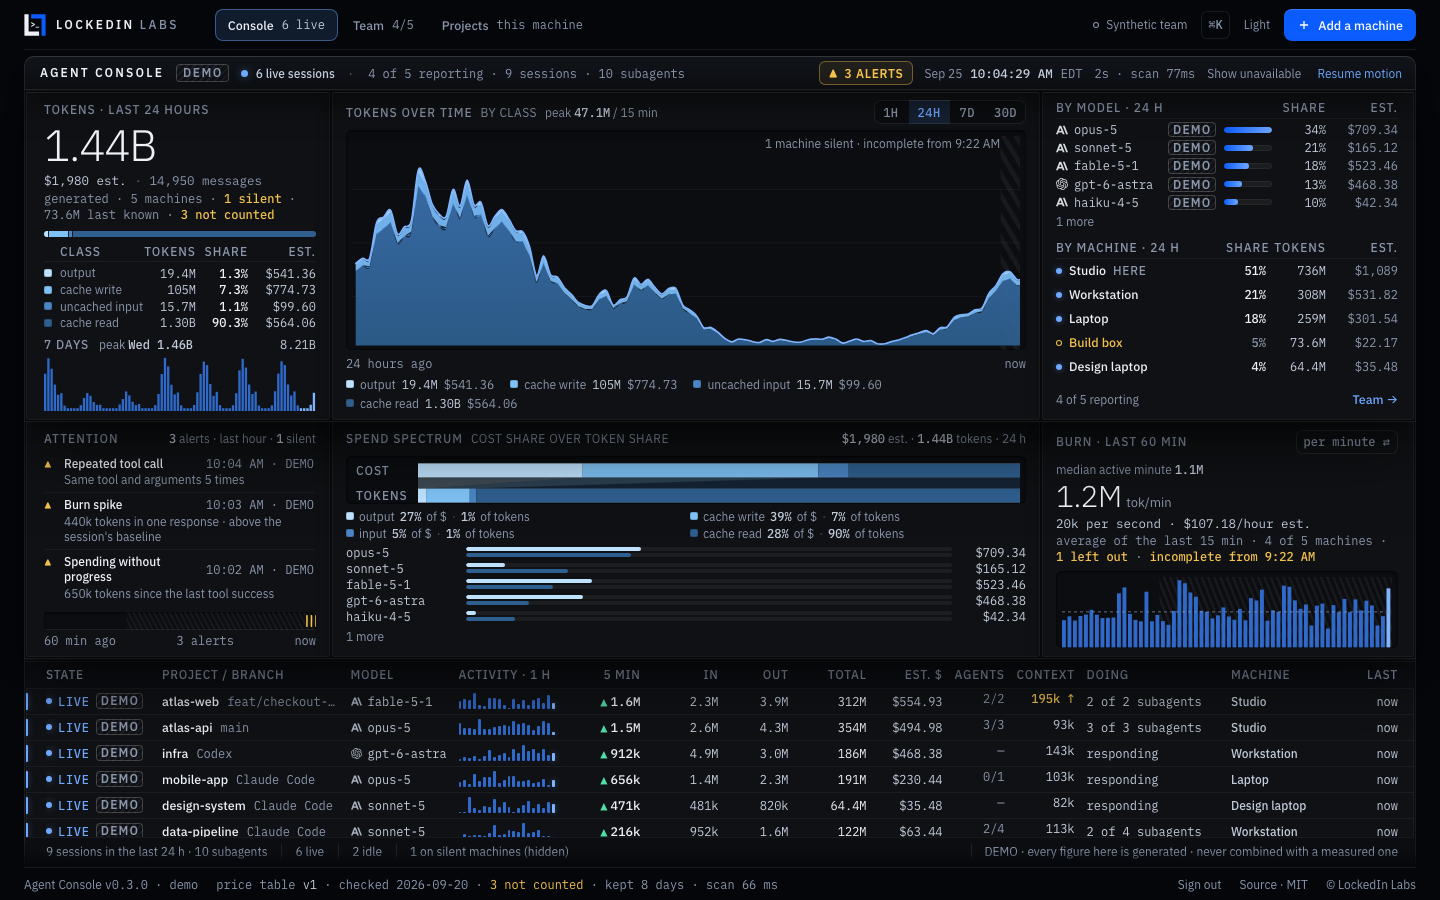
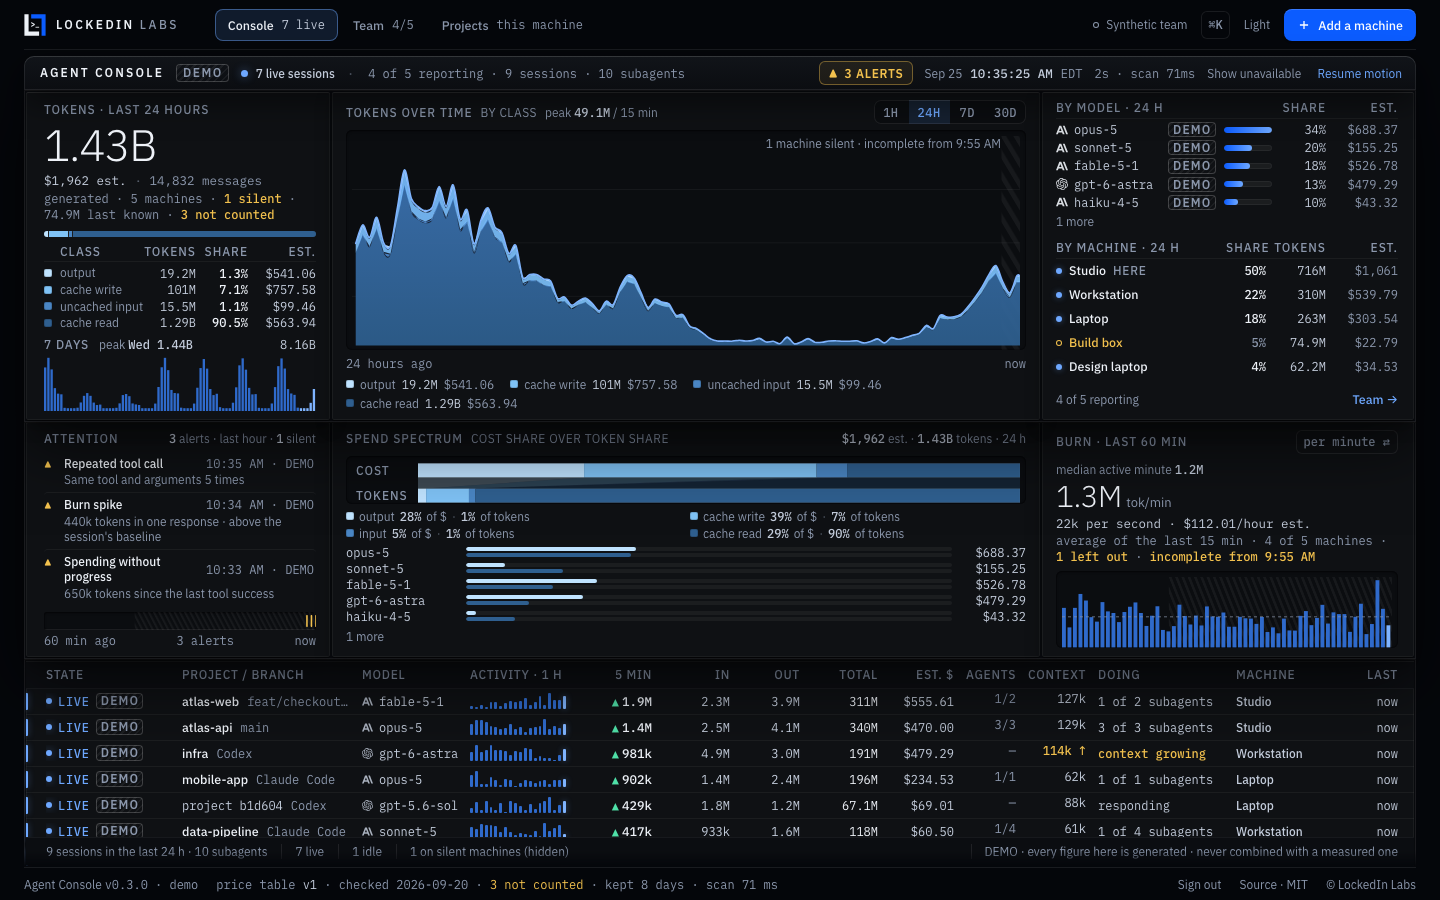
Console UI: the lanes' state column holds SILENT beside the DEMO stamp
The verifier reproduced the last residual on 6af3b00: with Show unavailable
on, a SILENT lane's DEMO stamp overran its 104px state column by 9.2px at
1440, 1280 and 390 in both themes, and the column's clip showed it as DEM.
The column is 124px in all four lane grids (desk, wide, folded, phone):
SILENT · DEMO needs 113 and sits 10.8px inside, REMOVED · DEMO needs 121
and sits 2.9px inside, and RECONNECTING alone (107) fits where 104 cut it.
The stamp keeps the house mark's spacing. LIVE and IDLE lanes are unchanged
but for the wider column; no other lane cell is newly cut.

The focused test names 124 for the four grids and refuses 92, 96 and 104 on
the lane grids alone. The two README Console captures are retaken from the
same demo, metadata stripped, PNG. Data, calculations, the six completed
fixes, credential masking and the architecture are untouched.

diff --git a/public/console.css b/public/console.css
@@ -359,8 +359,9 @@ body[data-demo="true"] .xrow.reporting .xn i { background: var(--lit); box-shado
 .lanes { background: var(--tile); box-shadow: inset 0 1px 0 var(--rim), inset 0 0 0 1px var(--hair2), var(--elev-tile); flex: none; border-radius: 2px; }
 .lanescroll { scrollbar-width: thin; scrollbar-color: var(--hair) transparent; }
 .lanescroll:focus-visible { outline: 2px solid var(--lit); outline-offset: -2px; }
+/* the state column is 124px at every width: room for the longest word the console says (REMOVED, RECONNECTING) beside the DEMO stamp, never a stamp cut to DEM */
 .lhead, .lane { display: grid; align-items: center; gap: calc(12px * var(--k)); padding: 0 calc(16px * var(--k)) 0 calc(20px * var(--k));
-  grid-template-columns: calc(104px * var(--k)) minmax(calc(150px * var(--k)), 1.2fr) minmax(calc(96px * var(--k)), .5fr) minmax(calc(96px * var(--k)), .5fr)
+  grid-template-columns: calc(124px * var(--k)) minmax(calc(150px * var(--k)), 1.2fr) minmax(calc(96px * var(--k)), .5fr) minmax(calc(96px * var(--k)), .5fr)
     calc(74px * var(--k)) calc(66px * var(--k)) calc(58px * var(--k)) calc(66px * var(--k)) calc(64px * var(--k)) calc(50px * var(--k)) calc(58px * var(--k)) minmax(calc(126px * var(--k)), .9fr) minmax(calc(84px * var(--k)), .7fr) calc(52px * var(--k)); }
 .lhead { height: calc(28px * var(--k)); font: 500 calc(12px * var(--k)) var(--sans); letter-spacing: .06em; text-transform: uppercase; color: var(--quiet); white-space: nowrap;
   background: var(--band-head); border-bottom: 1px solid var(--hair2); box-shadow: inset 0 1px 0 var(--rim); overflow: hidden; }
@@ -742,7 +743,7 @@ dialog.pal[open] { animation: sheetin .18s var(--ease); }
 /* ── wide: a big screen gets more lanes, each a little tighter ── */
 @media (min-width: 1800px) {
   .console { grid-template-columns: calc(340px * var(--k)) 1fr calc(400px * var(--k)); }
-  .lhead, .lane { grid-template-columns: calc(104px * var(--k)) minmax(calc(190px * var(--k)), 1.3fr) minmax(calc(110px * var(--k)), .5fr) minmax(calc(120px * var(--k)), .55fr)
+  .lhead, .lane { grid-template-columns: calc(124px * var(--k)) minmax(calc(190px * var(--k)), 1.3fr) minmax(calc(110px * var(--k)), .5fr) minmax(calc(120px * var(--k)), .55fr)
     calc(78px * var(--k)) calc(74px * var(--k)) calc(66px * var(--k)) calc(76px * var(--k)) calc(68px * var(--k)) calc(56px * var(--k)) calc(64px * var(--k)) minmax(calc(150px * var(--k)), 1fr) minmax(calc(110px * var(--k)), .8fr) calc(60px * var(--k)); }
 }
 
@@ -754,7 +755,7 @@ dialog.pal[open] { animation: sheetin .18s var(--ease); }
    columns a phone cannot use dropped. Nothing that carries state is hidden. */
 @media (max-width: 1240px) {
   .lhead .c-in, .lhead .c-out, .lhead .c-usd, .lhead .c-do, .lane .in, .lane .out, .lane .usd, .lane .do { display: none; }
-  .lhead, .lane { grid-template-columns: calc(104px * var(--k)) minmax(calc(150px * var(--k)), 1.3fr) minmax(calc(90px * var(--k)), .5fr) minmax(calc(90px * var(--k)), .5fr)
+  .lhead, .lane { grid-template-columns: calc(124px * var(--k)) minmax(calc(150px * var(--k)), 1.3fr) minmax(calc(90px * var(--k)), .5fr) minmax(calc(90px * var(--k)), .5fr)
     calc(72px * var(--k)) calc(70px * var(--k)) calc(52px * var(--k)) calc(60px * var(--k)) minmax(calc(80px * var(--k)), .8fr) calc(56px * var(--k)); gap: calc(10px * var(--k)); }
 }
 @media (max-width: 1100px) {
@@ -824,7 +825,7 @@ dialog.pal[open] { animation: sheetin .18s var(--ease); }
   .lhead .c-in, .lhead .c-out, .lane .in, .lane .out { display: none; }
   .lhead .c-usd, .lane .usd, .lhead .c-la, .lane .la { display: block; }
   /* state, then the figures that cost money and when the lane last spoke, on screen at 390; the name, the model, the hour and the day follow under the thumb */
-  .lhead, .lane { width: max-content; min-width: 100%; padding: 0 14px 0 16px; gap: 10px; grid-template-columns: 104px 64px 64px 52px 150px 96px 96px 60px; }
+  .lhead, .lane { width: max-content; min-width: 100%; padding: 0 14px 0 16px; gap: 10px; grid-template-columns: 124px 64px 64px 52px 150px 96px 96px 60px; }
   .lhead .c-st, .lane .st { order: 0; }
   .lhead .c-fm, .lane .fm { order: 1; }
   .lhead .c-usd, .lane .usd { order: 2; }

diff --git a/test/console-layout.test.js b/test/console-layout.test.js
@@ -148,8 +148,10 @@ test("on a phone the hour axis caption, the person's machine status and the lane
   assert.match(phone, /\.inspect \.irow\.mach \{ grid-template-columns: minmax\(0, 1fr\) 64px 60px;/u);
   assert.match(phone, /\.inspect \.irow\.mach > b \{ grid-area: 1 \/ 1; \}/u);
   assert.match(phone, /\.inspect \.irow\.mach \.status \{ grid-row: 2; grid-column: 1 \/ -1; \}/u);
-  // the state column holds the word, its dot and the stamp at every width: 104px, never 96 or 92
-  assert.match(phone, /\.lhead, \.lane \{[^}]*grid-template-columns: 104px 64px 64px 52px/u);
-  assert.equal((CSS.match(/grid-template-columns: calc\(104px \* var\(--k\)\) minmax\(calc\(1[59]0px \* var\(--k\)\)/gu) || []).length, 3, "desk, folded and wide lane grids");
-  assert.doesNotMatch(CSS, /grid-template-columns: calc\(96px \* var\(--k\)\) minmax\(calc\(1[59]0px/u);
+  // the state column holds the dot, the longest word the console says and the stamp at every width: 124px
+  // (SILENT · DEMO needs 113, REMOVED · DEMO 121, RECONNECTING alone 107), never the 104, 96 or 92 that cut the stamp to DEM
+  assert.match(phone, /\.lhead, \.lane \{[^}]*grid-template-columns: 124px 64px 64px 52px/u);
+  assert.equal((CSS.match(/grid-template-columns: calc\(124px \* var\(--k\)\) minmax\(calc\(1[59]0px \* var\(--k\)\)/gu) || []).length, 3, "desk, folded and wide lane grids");
+  assert.doesNotMatch(CSS, /grid-template-columns: calc\((96|104)px \* var\(--k\)\) minmax\(calc\(1[59]0px/u);
+  assert.doesNotMatch(phone, /grid-template-columns: (92|96|104)px 64px 64px 52px/u);
 });

diff --git a/CHANGELOG.md b/CHANGELOG.md
@@ -21,7 +21,8 @@
   projects' share and spend rows — is a 24px target (WCAG 2.5.8) at the
   same type size. On a phone the hour axis caption takes its own line
   whole, a person's machine row says its status whole under the name, and
-  the lanes' state column holds the DEMO stamp inside it at every width.
+  the lanes' state column holds the DEMO stamp inside it beside any
+  state word — SILENT included — at every width.
 - The instrument is denser and says less twice. The lanes carry a Doing
   column (the lane's newest alert, its subagents at work, a cache signal, a
   growing context, or its state in a word — never a prompt or a path), the
